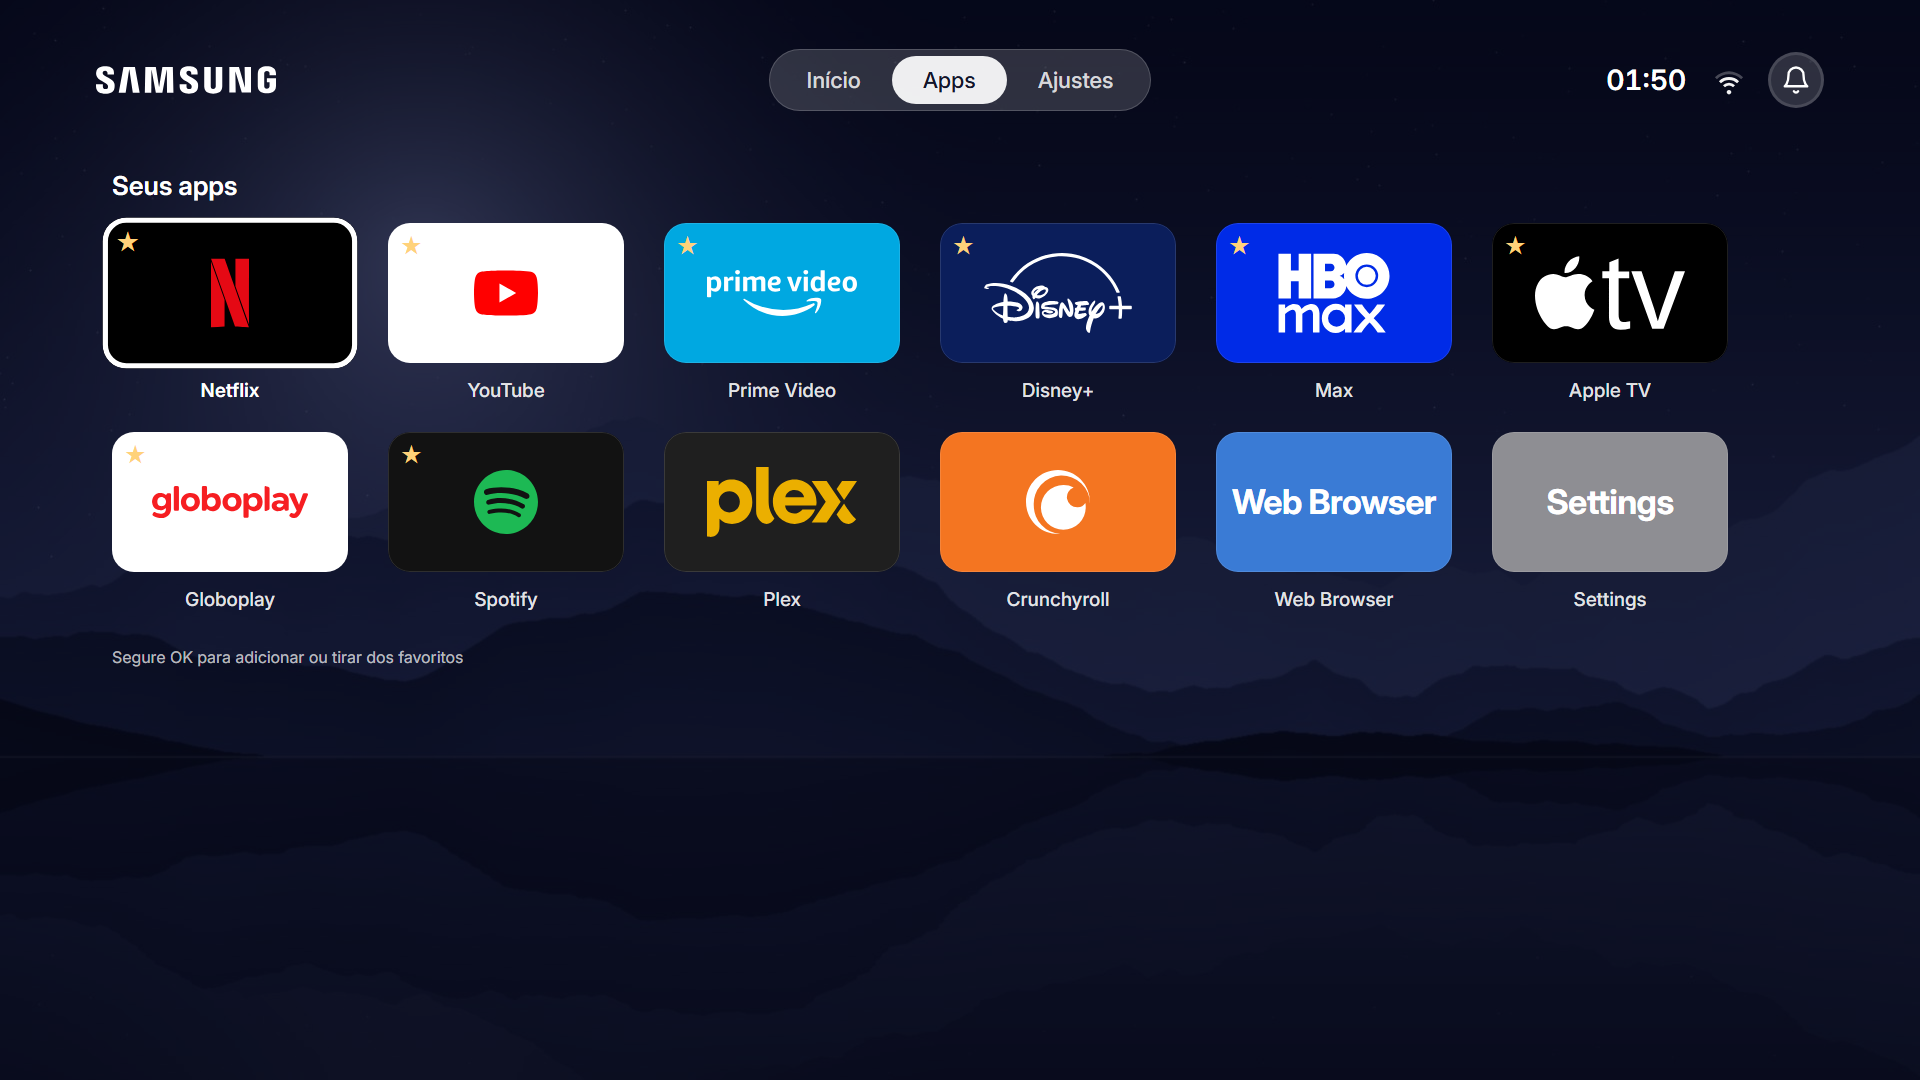
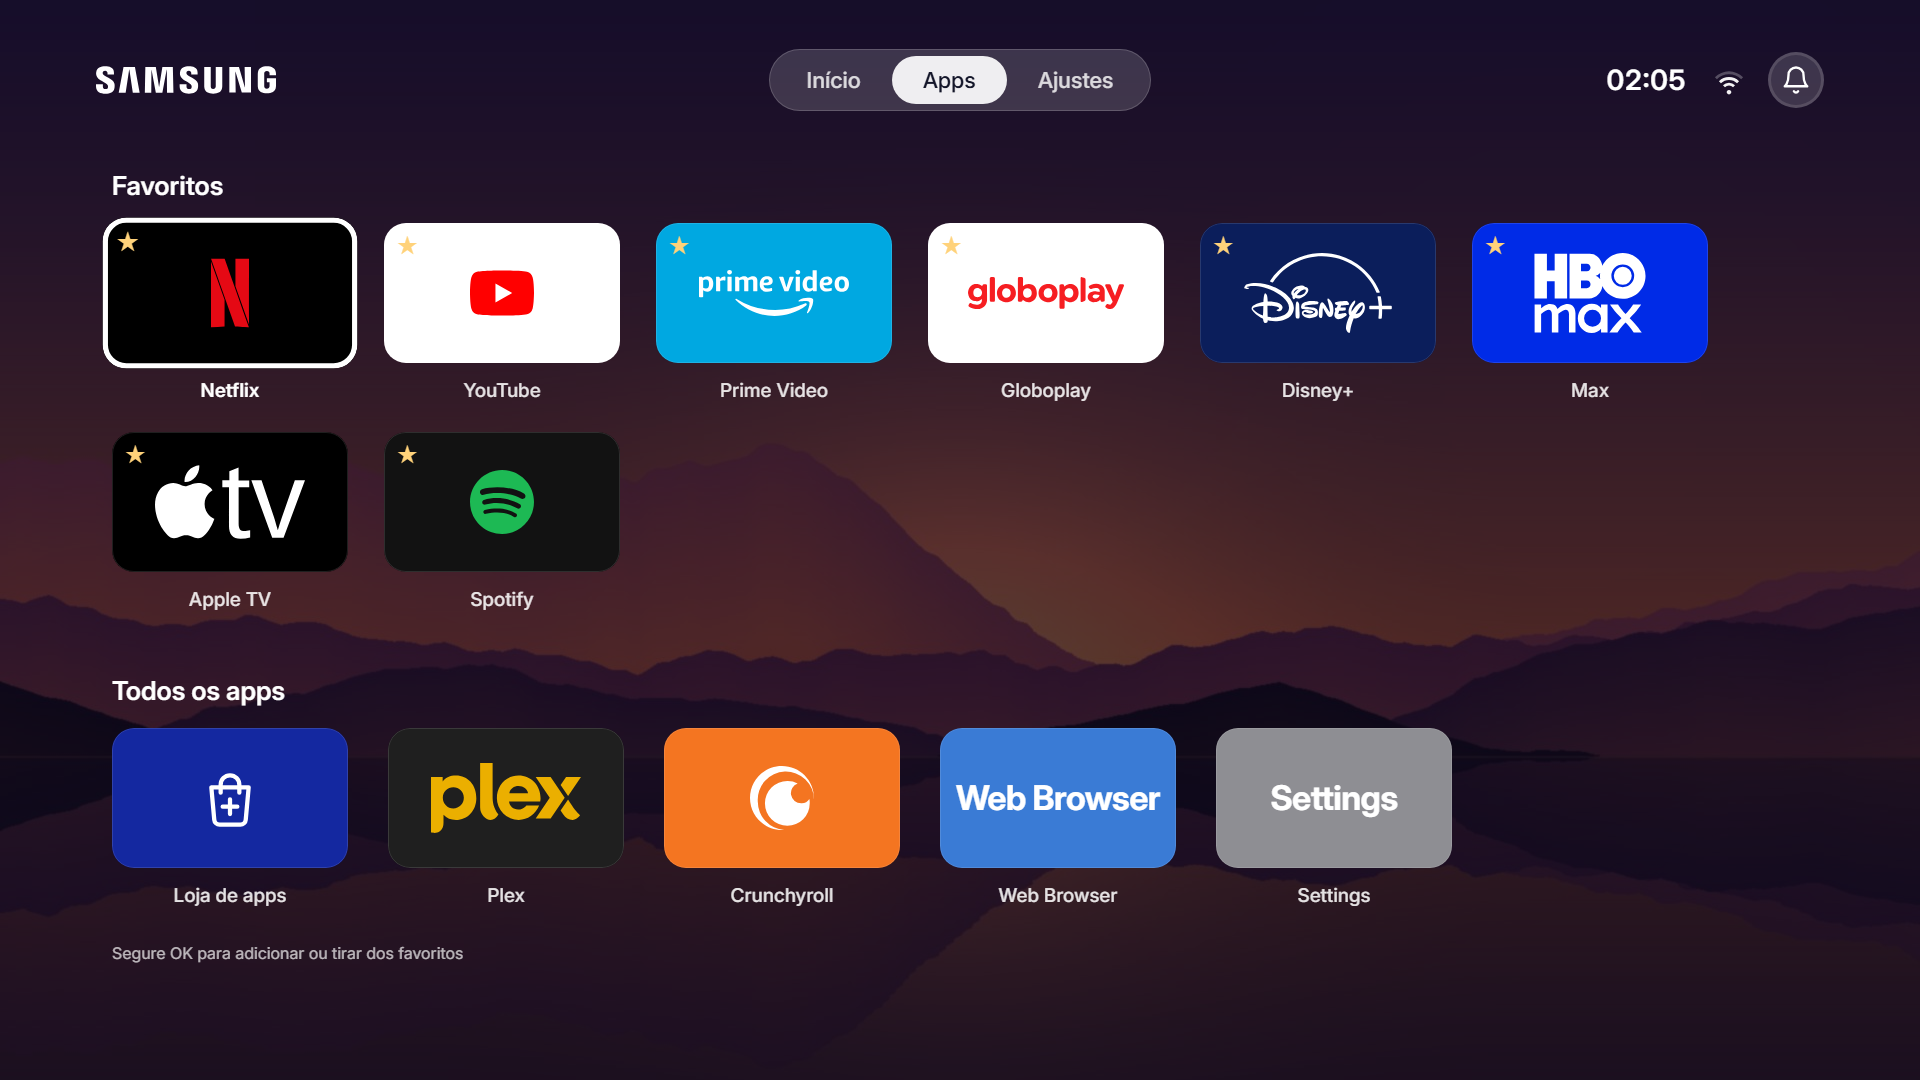
Release 1.3.0: favorites section and an app store tile in Apps
The Apps tab now lists the starred apps in their own section, in the same
order as on Inicio, above all the others. A "Loja de apps" tile opens
Samsung's store (com.samsung.tv.store), which leaves the app list so it
doesn't show twice.

diff --git a/web/home.js b/web/home.js
@@ -51,8 +51,13 @@
     gear: '<svg viewBox="0 0 48 48"><path d="M27.6 4l1.2 5.2a15 15 0 0 1 3.9 2.3l5.1-1.6 3.6 6.2-3.9 3.6a15 15 0 0 1 0 4.6l3.9 3.6-3.6 6.2-5.1-1.6a15 15 0 0 1-3.9 2.3L27.6 44h-7.2l-1.2-5.2a15 15 0 0 1-3.9-2.3l-5.1 1.6-3.6-6.2 3.9-3.6a15 15 0 0 1 0-4.6l-3.9-3.6 3.6-6.2 5.1 1.6a15 15 0 0 1 3.9-2.3L20.4 4zM24 17a7 7 0 1 0 0 14 7 7 0 0 0 0-14z" fill="#fff"/></svg>',
     bellcard: '<svg viewBox="0 0 24 24"><path d="M6 8a6 6 0 0 1 12 0c0 7 3 9 3 9H3s3-2 3-9" fill="none" stroke="#fff" stroke-width="1.9" stroke-linecap="round" stroke-linejoin="round"/>' +
       '<path d="M10.3 21a1.94 1.94 0 0 0 3.4 0" fill="none" stroke="#fff" stroke-width="1.9" stroke-linecap="round" stroke-linejoin="round"/></svg>',
-    next: '<svg viewBox="0 0 48 48"><path d="M8 10l18 14L8 38zm20 0l18 14-18 14z" fill="#fff"/></svg>'
+    next: '<svg viewBox="0 0 48 48"><path d="M8 10l18 14L8 38zm20 0l18 14-18 14z" fill="#fff"/></svg>',
+    store: '<svg class="glyph" viewBox="0 0 48 48"><path d="M10 16h28l-2.2 24.3A4 4 0 0 1 31.8 44H16.2a4 4 0 0 1-4-3.7z" fill="none" stroke="#fff" stroke-width="3.2" stroke-linejoin="round"/>' +
+      '<path d="M17 20v-6a7 7 0 0 1 14 0v6M24 25v11M18.5 30.5h11" fill="none" stroke="#fff" stroke-width="3.2" stroke-linecap="round"/></svg>'
   };
+
+  // Samsung's app store ("Apps" in Smart Hub): its own tile in the Apps tab, not one of the apps.
+  var STORE_ID = 'com.samsung.tv.store', STORE_TILE = 'dusk:store';
 
   // The apps' own logos (web/logos), by the app's name: [name, file, tile color, shape]. These win over the TV's
   // icons, which are small tiles with their own frames. Shape: '' a symbol, 'wide' a wordmark drawn at its own
@@ -324,10 +329,37 @@
     }
   }
 
+  // Apps: the favorites first, in their order, then the store and every other app.
   function drawApps() {
+    var top = $('#apps .grid.favapps');
+    top.innerHTML = '';
+    favs.forEach(function (id, i) {
+      var item = byId(id);
+      if (item) top.appendChild(tile(item, i, {star: true}));
+    });
+    if (!top.children.length) {
+      var empty = document.createElement('div');
+      empty.className = 'empty';
+      empty.textContent = 'Nenhum favorito ainda. Segure OK num app abaixo para fixá-lo aqui e no Início.';
+      top.appendChild(empty);
+    }
     var grid = $('#apps .grid.apps');
     grid.innerHTML = '';
-    apps.forEach(function (a, i) { grid.appendChild(tile(a, i, {star: true})); });
+    grid.appendChild(storeTile());
+    apps.forEach(function (a, i) {
+      if (favs.indexOf(a.id) < 0 && a.id !== STORE_ID) grid.appendChild(tile(a, i));
+    });
+  }
+
+  function storeTile() {
+    var el = tile({id: STORE_TILE, title: 'Loja de apps', icon: '', color: '#1428A0'}, 0);
+    var face = $('.card', el);
+    face.innerHTML = SVG.store;
+    el.onAction = function () {
+      toast('Abrindo a loja de apps…');
+      TV.launch(STORE_ID, null, function (ok) { if (!ok) toast('Não deu para abrir a loja de apps'); });
+    };
+    return el;
   }
 
   function card(icon, title, sub, action) {
@@ -576,6 +608,7 @@
   function longPress(el) {
     if (!el || !el.getAttribute('data-id')) return;
     var id = el.getAttribute('data-id');
+    if (id.indexOf('dusk:') === 0) return;   // the store tile isn't an app to pin
     if (view === 'home') {
       moving = el;
       el.classList.add('lifted');

diff --git a/web/home.css b/web/home.css
@@ -90,6 +90,7 @@ body.view-apps #bg .shade, body.view-settings #bg .shade { background: rgba(5, 6
 .grid .tile { margin-bottom: 30px; }
 .grid.apps .tile { margin-right: 40px; }
 #apps .hint { font-size: 16px; opacity: 0.7; margin-top: 6px; }
+#apps .empty { height: 140px; display: flex; align-items: center; font-size: 20px; opacity: 0.75; margin-bottom: 30px; }
 
 .cards .item { width: 392px; height: 132px; margin: 0 28px 28px 0; padding: 24px 28px; box-sizing: border-box; border-radius: 22px; text-align: left;
   background: rgba(255, 255, 255, 0.12); border: 3px solid rgba(255, 255, 255, 0.1); display: flex; align-items: center; }

diff --git a/web/index.html b/web/index.html
@@ -38,7 +38,9 @@
   </section>
 
   <section id="apps" class="view">
-    <h2>Seus apps</h2>
+    <h2>Favoritos</h2>
+    <div class="grid favapps"></div>
+    <h2>Todos os apps</h2>
     <div class="grid apps"></div>
     <div class="hint">Segure OK para adicionar ou tirar dos favoritos</div>
   </section>

diff --git a/README.md b/README.md
@@ -7,7 +7,7 @@
 Paisagens que mudam sozinhas, seus apps com os logos de verdade, relógio, Wi-Fi e notificações. Sem propaganda,
 sem fileiras patrocinadas.
 
-![Versão](https://img.shields.io/badge/versão-1.2.1-8CB2F3?style=for-the-badge)
+![Versão](https://img.shields.io/badge/versão-1.3.0-8CB2F3?style=for-the-badge)
 ![Samsung Tizen](https://img.shields.io/badge/Samsung-Tizen%203.0%2B-1428A0?style=for-the-badge&logo=samsung&logoColor=white)
 ![Testado em](https://img.shields.io/badge/feito%20para-UN60AU8000%20(2021)-0F172A?style=for-the-badge)
 ![Licença MIT](https://img.shields.io/badge/licença-MIT-2EA44F?style=for-the-badge)
@@ -64,8 +64,9 @@ Segure **OK** num favorito para arrastá-lo com as setas.
 <img src="docs/screenshots/inicio.png" alt="Tela inicial" width="100%">
 
 ### Apps
-Todos os apps instalados, cada um com o **logo oficial** sobre a cor da marca.
-Segure **OK** para colocar ou tirar dos favoritos (⭐).
+Seus **Favoritos** ficam numa seção própria no topo, e logo abaixo vêm **Todos os apps**, com um bloco para abrir a
+**Loja de apps** da Samsung. Cada app aparece com o **logo oficial** sobre a cor da marca. Segure **OK** para
+colocar ou tirar dos favoritos (⭐).
 
 <img src="docs/screenshots/apps.png" alt="Aba de apps" width="100%">
 
@@ -90,7 +91,8 @@ o painel de notificações da Samsung.
 - 📴 **Funciona sem internet:** 5 paisagens salvas no próprio app entram quando a rede cai.
 - 🎨 **Logos de verdade** para cerca de 30 apps: Netflix, YouTube, Prime Video, Globoplay, Disney+, HBO Max,
   Apple TV, Spotify, Twitch, Crunchyroll, Plex, Paramount+, PlayStation, Xbox e outros.
-- ⭐ **Favoritos editáveis pelo controle:** adicionar, tirar e reorganizar.
+- ⭐ **Favoritos editáveis pelo controle:** adicionar, tirar e reorganizar. Na aba Apps, eles ficam numa seção separada.
+- 🛍 **Loja de apps** da Samsung a um clique, na aba Apps.
 - 📶 **Status da rede** em tempo real: força do Wi-Fi ou cabo.
 - 🔔 **Notificações** da Samsung a um clique.
 - 🔌 **Entradas HDMI** com status de conexão.

diff --git a/CHANGELOG.md b/CHANGELOG.md
@@ -1,5 +1,13 @@
 # Changelog
 
+## [1.3.0] - 2026-10-28
+
+### Novo
+- **Favoritos separados na aba Apps:** os apps marcados com ⭐ ficam numa seção "Favoritos" no topo, na mesma ordem
+  do Início. Os demais ficam em "Todos os apps".
+- **Bloco "Loja de apps":** primeiro bloco de "Todos os apps", abre a loja da Samsung (`com.samsung.tv.store`). O
+  app "Apps" da Samsung sai da lista, para não aparecer repetido.
+
 ## [1.2.1] - 2026-10-28
 
 ### Corrigido
